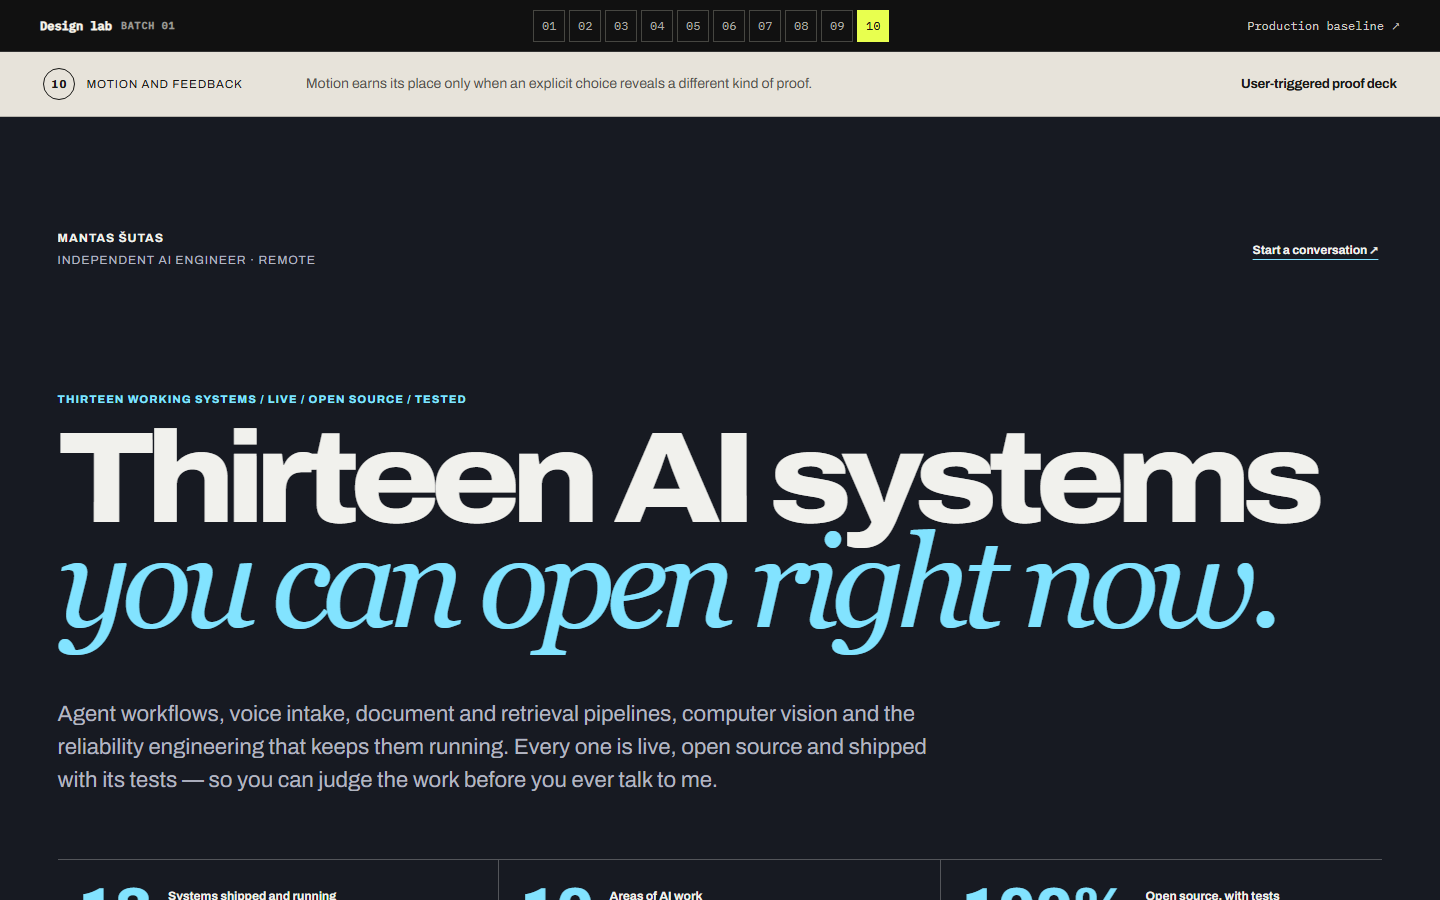
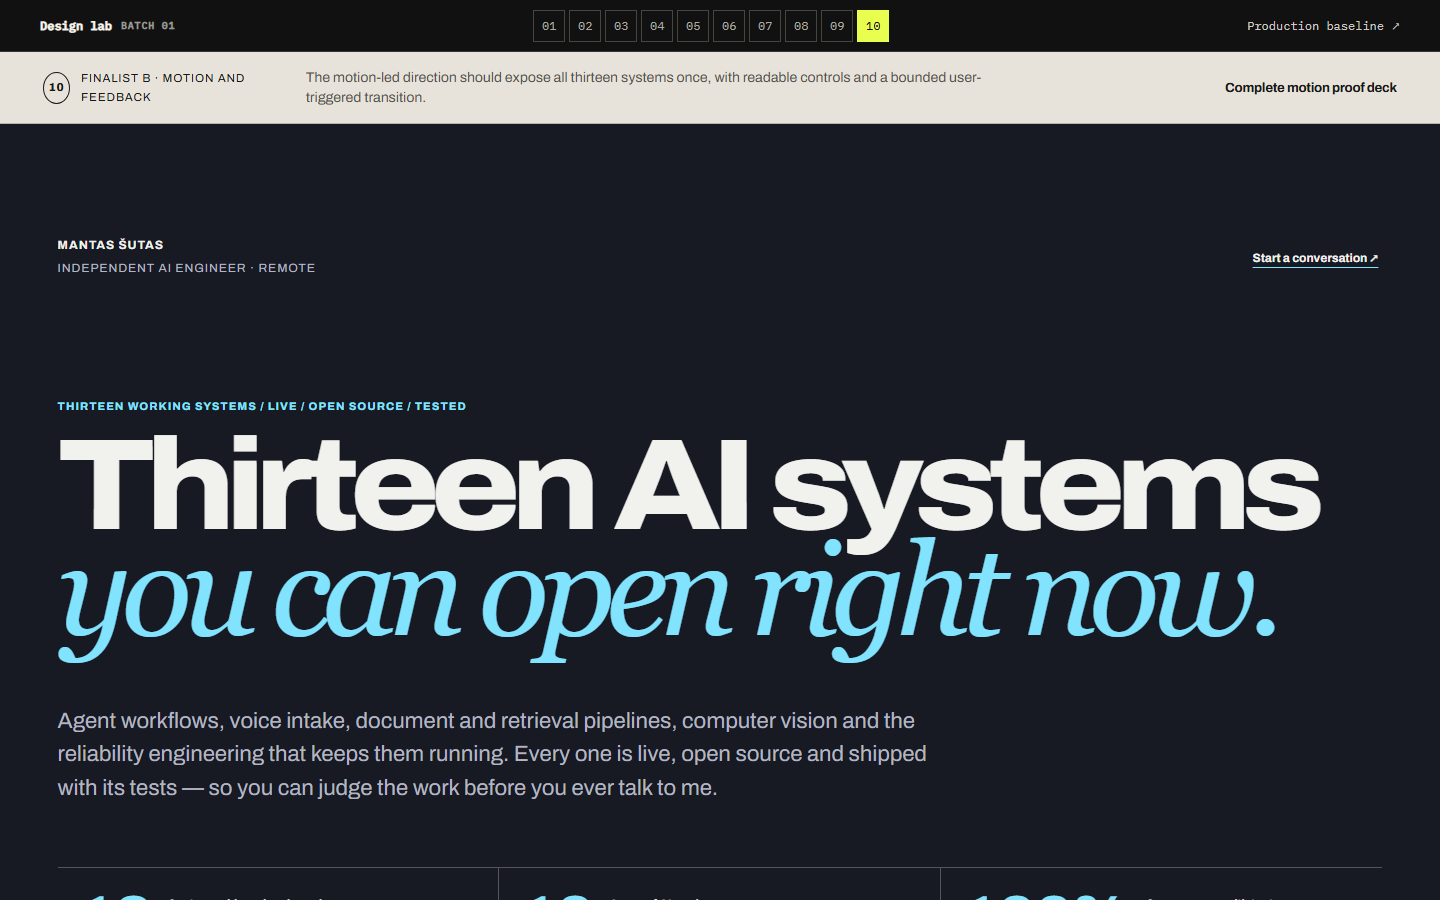
refactor(design-lab): present two complete finalist bases

diff --git a/src/styles/design-lab.css b/src/styles/design-lab.css
@@ -177,15 +177,18 @@
 .v06-canvas > header { display: grid; grid-template-columns: 1fr 3fr; gap: 2rem; align-items: start; margin-bottom: 2.2rem; }
 .v06-canvas > header p { margin: .5rem 0 0; color: #aaa69e; font-size: .7rem; text-transform: uppercase; }
 .v06-canvas > header h2 { margin: 0; font-size: clamp(3.5rem, 7.3vw, 7.5rem); line-height: .82; letter-spacing: -.075em; }
-.v06-layout { display: grid; grid-template-columns: minmax(250px, .65fr) 2.2fr; gap: 2rem; align-items: start; }
-.v06-list { max-height: 680px; margin: 0; padding: 0; overflow-y: auto; border-block: 1px solid #4a4843; list-style: none; scrollbar-color: #777 #242424; }
+.v06-layout { display: grid; grid-template-columns: minmax(370px, .9fr) minmax(0, 1.45fr); gap: 2rem; align-items: start; }
+.v06-list { margin: 0; padding: 0; border-block: 1px solid #4a4843; list-style: none; }
 .v06-list li { border-bottom: 1px solid #353432; }
-.v06-list button { display: grid; grid-template-columns: 2.3rem 1fr auto 10px; gap: .7rem; align-items: center; width: 100%; min-height: 49px; padding: .65rem .5rem; border: 0; background: transparent; color: #d2cec6; text-align: left; cursor: pointer; font: inherit; }
+.v06-list button { display: grid; grid-template-columns: 2.3rem minmax(0, 1fr) 10px; gap: .2rem .7rem; align-items: start; width: 100%; min-height: 68px; padding: .75rem .6rem; border: 0; background: transparent; color: #d2cec6; text-align: left; cursor: pointer; font: inherit; }
 .v06-list button:hover, .v06-list button[aria-pressed='true'] { background: #242321; color: #fff; }
-.v06-list button span, .v06-list button small { color: #8f8b84; font-size: .64rem; text-transform: uppercase; }
-.v06-list button small { min-width: 0; overflow: hidden; text-overflow: ellipsis; white-space: nowrap; }
-.v06-list button i { width: 9px; height: 9px; border-radius: 50%; background: var(--project); box-shadow: 0 0 0 3px color-mix(in srgb, var(--project), transparent 70%); }
-.v06-display article { display: grid; grid-template-columns: 1.45fr .8fr; min-height: 620px; border: 1px solid #41403c; background: color-mix(in srgb, var(--project), #151515 91%); }
+.v06-list button span { grid-row: 1 / 3; padding-top: .15rem; }
+.v06-list button b { line-height: 1.18; }
+.v06-list button span, .v06-list button small { color: #aaa69e; font-size: .64rem; text-transform: uppercase; }
+.v06-list button small { grid-column: 2; min-width: 0; line-height: 1.3; }
+.v06-list button i { grid-column: 3; grid-row: 1 / 3; align-self: center; width: 9px; height: 9px; border-radius: 50%; background: var(--project); box-shadow: 0 0 0 3px color-mix(in srgb, var(--project), transparent 70%); }
+.v06-display { position: sticky; top: 1.5rem; min-width: 0; }
+.v06-display article { display: grid; grid-template-columns: minmax(0, 1.2fr) minmax(260px, .8fr); border: 1px solid #41403c; background: color-mix(in srgb, var(--project), #151515 91%); }
 .v06-image { display: grid; place-items: center; padding: 2rem; background: color-mix(in srgb, var(--project), #151515 84%); }
 .v06-image img { display: block; width: 100%; height: auto; box-shadow: 0 28px 70px #0008; }
 .v06-display article > div:last-child { display: flex; flex-direction: column; justify-content: center; padding: 2.2rem; border-left: 1px solid #484641; }
@@ -270,34 +273,42 @@
 .v09-notes a { color: #17352b; font-size: .72rem; font-weight: 800; }
 .v09-canvas > footer { display: flex; justify-content: space-between; gap: 1rem; padding-top: 1rem; border-top: 1px solid #17352b; font-size: .7rem; text-transform: uppercase; }
 
-/* 10 — user-triggered proof deck */
-.v10-canvas { min-height: 100vh; padding: clamp(2rem, 4vw, 4rem); overflow: hidden; background: #171634; color: #f4f1e8; }
+/* 10 — user-triggered complete proof deck */
+.v10-canvas { min-height: 100vh; padding: clamp(2rem, 4vw, 4rem); background: #171634; color: #f4f1e8; }
 .v10-canvas > header { display: grid; grid-template-columns: 1fr 3fr; gap: 2rem; align-items: start; }
 .v10-canvas > header p { margin: .6rem 0 0; color: #aaa6cc; font-size: .7rem; text-transform: uppercase; }
 .v10-canvas > header h2 { margin: 0; font-size: clamp(3.8rem, 7vw, 7.4rem); line-height: .82; letter-spacing: -.075em; }
-.v10-controls { display: flex; gap: .5rem; flex-wrap: wrap; margin: 2.2rem 0 1.4rem; padding-left: 25%; }
-.v10-controls button { display: flex; gap: .75rem; min-height: 44px; padding: .8rem 1rem; border: 1px solid #77739b; background: transparent; color: #d4d0ee; font: inherit; font-size: .75rem; cursor: pointer; }
-.v10-controls button span { color: #8b86af; }
-.v10-controls button[aria-pressed='true'] { background: #f4f1e8; color: #171634; }
-.v10-controls button[aria-pressed='true'] span { color: #514c75; }
-.v10-stage { position: relative; width: min(1100px, 76vw); height: 610px; margin-left: auto; }
-.v10-stage article { position: absolute; inset: 0; display: grid; grid-template-columns: 1.45fr .85fr; min-height: 510px; border-top: 9px solid var(--project); background: #f2eee5; color: #171634; box-shadow: 0 35px 90px #070716aa; transform-origin: 50% 20%; }
-.v10-stage article:nth-child(2) { transform: translate(44px, 47px) scale(.94); opacity: .48; }
-.v10-stage article:nth-child(3) { transform: translate(60px, 60px) scale(.94); opacity: .48; }
+.v10-layout { display: grid; grid-template-columns: minmax(380px, .9fr) minmax(0, 1.35fr); gap: 2rem; align-items: start; margin-top: 2.5rem; }
+.v10-index section { padding: 1.1rem 0; border-top: 1px solid #56527d; }
+.v10-index h3 { display: grid; grid-template-columns: 2.5rem 1fr; margin: 0 0 .7rem; color: #c7c3e2; font-size: .72rem; text-transform: uppercase; }
+.v10-index h3 span { color: #8f89b8; }
+.v10-index ol { margin: 0; padding: 0; list-style: none; }
+.v10-index li { border-top: 1px solid #37355b; }
+.v10-index button { display: grid; grid-template-columns: 2.5rem minmax(0, 1fr); gap: .25rem .7rem; width: 100%; min-height: 70px; padding: .75rem .7rem .75rem 0; border: 0; background: transparent; color: #f0edf7; text-align: left; cursor: pointer; font: inherit; }
+.v10-index button:hover, .v10-index button:focus-visible, .v10-index button[aria-pressed='true'] { padding-left: .7rem; background: #f4f1e8; color: #171634; box-shadow: inset 5px 0 var(--project); }
+.v10-index button span { grid-row: 1 / 3; color: #aaa6cc; font-size: .66rem; }
+.v10-index button b { line-height: 1.18; overflow-wrap: anywhere; }
+.v10-index button small { grid-column: 2; color: #b8b4d0; font-size: .68rem; line-height: 1.3; }
+.v10-index button:hover span, .v10-index button:focus-visible span, .v10-index button[aria-pressed='true'] span,
+.v10-index button:hover small, .v10-index button:focus-visible small, .v10-index button[aria-pressed='true'] small { color: #57536f; }
+.v10-stage { position: sticky; top: 1.5rem; min-width: 0; box-shadow: 14px 14px 0 #302e59, 28px 28px 0 #242242; }
+.v10-stage article { display: grid; grid-template-columns: minmax(0, 1.15fr) minmax(270px, .85fr); border-top: 9px solid var(--project); background: #f2eee5; color: #171634; box-shadow: 0 35px 90px #070716aa; transform-origin: 50% 20%; }
 .v10-image { display: grid; place-items: center; padding: 1.2rem; background: color-mix(in srgb, var(--project), #e8e2d8 79%); }
 .v10-image img { display: block; width: 100%; height: auto; box-shadow: 0 20px 50px #2c25434a; }
 .v10-copy { display: flex; flex-direction: column; justify-content: center; padding: 2rem; border-left: 1px solid #9d998f; }
 .v10-copy span { color: color-mix(in srgb, var(--project), #171634 58%); font-size: .68rem; font-weight: 800; text-transform: uppercase; }
-.v10-copy h3 { margin: .8rem 0; font-size: clamp(2rem, 3.4vw, 3.7rem); line-height: .93; }
+.v10-copy h3 { margin: .8rem 0; font-size: clamp(1.8rem, 3vw, 3.25rem); line-height: .95; overflow-wrap: anywhere; }
 .v10-copy p { color: #514e5a; line-height: 1.42; }
 .v10-copy b { margin-bottom: 1.2rem; color: #171634; font-size: .8rem; }
-.v10-copy a { align-self: start; padding: .75rem .9rem; border: 1px solid var(--project); color: #171634; font-size: .72rem; font-weight: 750; text-decoration: none; }
-.v10-motion-note { margin: 0 0 0 auto; max-width: 1100px; color: #9995bd; font-size: .7rem; }
+.v10-actions { display: flex; flex-wrap: wrap; gap: .6rem; }
+.v10-actions a { display: inline-flex; align-items: center; min-height: 44px; padding: .7rem .9rem; border: 1px solid #171634; color: #171634; font-size: .72rem; font-weight: 750; text-decoration: none; }
+.v10-actions a:last-child { background: #171634; color: #fff; }
+.v10-motion-note { margin: 2.4rem 0 0 auto; max-width: 920px; color: #b8b4d0; font-size: .72rem; }
 
 [hidden] { display: none !important; }
 
 @media (prefers-reduced-motion: no-preference) {
-  .v01-index a, .v05-groups a, .v06-list button { transition: background-color .16s ease, padding .16s ease, box-shadow .16s ease; }
+  .v01-index a, .v05-groups a, .v06-list button, .v10-index button { transition: background-color .16s ease, padding .16s ease, box-shadow .16s ease; }
   .v04-focus { transition: left .25s ease, top .25s ease, width .25s ease, height .25s ease; }
   .v07-canvas.playing .v07-timeline li { animation: receiptStep .28s both; }
   .v07-canvas.playing .v07-timeline li:nth-child(2) { animation-delay: .28s; }
@@ -316,6 +327,9 @@
   .v05-preview figure { display: grid; grid-template-columns: 1.2fr 1fr; }
   .v05-preview figcaption { padding: 1rem; }
   .v05-preview h3 { font-size: 1.5rem; }
+
+  .v06-layout, .v10-layout { grid-template-columns: 1fr; }
+  .v06-display, .v10-stage { position: relative; top: auto; }
 }
 
 @media (max-width: 760px) {
@@ -374,10 +388,8 @@
   .v06-canvas > header { grid-template-columns: 1fr; gap: .7rem; }
   .v06-canvas > header h2 { font-size: 3.7rem; }
   .v06-layout { grid-template-columns: 1fr; gap: 1rem; }
-  .v06-list { display: flex; max-height: none; overflow-x: auto; border: 0; }
-  .v06-list li { flex: 0 0 auto; border: 1px solid #45433f; }
-  .v06-list button { grid-template-columns: auto 1fr 9px; min-width: 160px; }
-  .v06-list button small { display: none; }
+  .v06-list { display: block; border-top: 1px solid #45433f; }
+  .v06-list li { border-right: 0; }
   .v06-display article { grid-template-columns: 1fr; min-height: auto; }
   .v06-image { padding: 1rem; }
   .v06-display article > div:last-child { border-top: 1px solid #484641; border-left: 0; }
@@ -419,13 +431,11 @@
   .v10-canvas { padding: 2rem .9rem; }
   .v10-canvas > header { grid-template-columns: 1fr; gap: .8rem; }
   .v10-canvas > header h2 { font-size: 3.8rem; }
-  .v10-controls { display: grid; grid-template-columns: 1fr; padding-left: 0; }
-  .v10-controls button { width: 100%; }
-  .v10-stage { width: 100%; height: 670px; }
-  .v10-stage article { grid-template-columns: 1fr; min-height: 610px; }
+  .v10-layout { grid-template-columns: 1fr; gap: 1.8rem; }
+  .v10-index button { grid-template-columns: 2.2rem minmax(0, 1fr); }
+  .v10-stage { width: calc(100% - 24px); box-shadow: 8px 8px 0 #302e59, 16px 16px 0 #242242; }
+  .v10-stage article { grid-template-columns: 1fr; }
   .v10-image { align-content: start; }
   .v10-copy { justify-content: start; padding: 1.3rem; border-top: 1px solid #9d998f; border-left: 0; }
   .v10-copy h3 { font-size: 2.2rem; }
-  .v10-stage article:nth-child(2) { transform: translate(10px, 24px) scale(.96); }
-  .v10-stage article:nth-child(3) { transform: translate(18px, 38px) scale(.94); }
 }

diff --git a/design-lab/VARIANT_MANIFEST.md b/design-lab/VARIANT_MANIFEST.md
@@ -14,13 +14,18 @@ media and claims. The lab is absent from production navigation.
 | 03 | **Display typography — variable-width specimen.** Using Archivo's existing width axis as composition can create identity without another font or graphic layer. | Instrument grotesque crop; Vercel scale contrast; Archivo already shipped | Conventional bold headline becomes a condensed/expanded typographic poster with a visitor-controlled width specimen. | Distinctive at near-zero payload cost; demonstrates design control. | Expressive type can reduce immediate legibility if pushed too far. | S |  |
 | 04 | **Live stage — guided inspection bench.** A product stage should point to one important interaction and result instead of showing an undirected full console. | Linear real interface; Raycast category media; Codrops clip/reveal mechanisms refitted to click only | Generic browser frame becomes a product-coloured crop with three accessible inspection points and click-triggered focus masks. | Makes dense interfaces legible at contact-sheet size and gives visitors a reason to interact. | Annotation maintenance when product UIs change; risks feeling like a tour overlay. | M |  |
 | 05 | **Project discovery — evidence lens.** A complete text index can gain strong information scent through a collision-safe preview on hover/focus without hiding any rows. | Eugene Yan counted index; ustwo chapters; Floating UI (32.7k stars) for placement | Same thirteen visible rows, grouped by client route; focused row opens a real product preview and hard-part label beside it. | Faster comparison and stronger media presence without a card grid or carousel. | Desktop enhancement has no exact mobile equivalent; preview must never obstruct controls. | M |  |
-| 06 | **Product identity — thirteen-colour registry.** Each system's own accent can make breadth memorable while the central shell remains quiet. | Stripe product-connected colour; Raycast campaign identity; PostHog proprietary palette | Single green accent becomes a curated per-project colour registry applied to numbers, rules, selection and image mats. | Products stop looking reskinned; the index becomes visually navigable. | Too many simultaneous accents can look noisy or arbitrary. | M |  |
+| 06 | **Finalist A — complete identity registry.** Each system's own accent can make breadth memorable while a complete visible index keeps comparison immediate. | Stripe product-connected colour; Raycast campaign identity; PostHog proprietary palette; experiment 05 hover/focus lens | All 13 descriptive titles are visible in one list; hover, focus or tap changes the full canonical project preview, image mat and actions. | Products stop looking reskinned; the index is complete and fast to inspect without a second directory. | The long visible index is deliberately dense, especially on mobile. | M |  |
 | 07 | **Evidence — executable receipt.** Results should scan as a test outcome with artifact, rerun and limit in one visual path. | Linear explicit state; PostHog candid copy; existing immutable evidence contract | Definition lists become a large 7/7 result, failure/recovery timeline, artifact links, rerun block and visibly bounded claim. | Turns invisible reliability work into a high-signal visual asset. | A receipt treatment may over-emphasize one impressive project or look like a certification claim. | M |  |
 | 08 | **Project detail — case spine.** One sticky chapter spine can preserve orientation while each project gets a composition suited to its defining artifact. | ustwo editorial chapters; Stripe product sequences; Brittany Chiang sticky orientation | Flat detail sequence becomes Problem / Run it / Receipt / Adapt it chapters with a sticky index and project-specific stage. | Better depth without forcing a long linear read; stronger case-study feel. | More authoring per project and a larger consistency burden across thirteen pages. | L |  |
 | 09 | **Human authorship — engineering field notes.** First-person decisions and a larger portrait can expose judgement without invented social proof. | thoughtbot people; Valentin portrait; Josh Comeau authored voice; PostHog candour | Small identity chip becomes a signed field-note spread pairing Mantas's real decisions with the corresponding systems. | Makes the portfolio feel owned by a practitioner, not assembled from project cards. | Can become self-focused or verbose; claims must remain interview-defensible. | M |  |
-| 10 | **User-triggered motion — proof deck.** Motion should reveal comparison only after an explicit choice and should stop instantly under reduced motion. | Josh Comeau microinteractions; Motion (32.1k stars); Codrops transition principles refitted away from scroll | Static selected state becomes an accessible three-card proof deck; click/key selection reorders and expands evidence with interruptible motion. | Adds polish tied to understanding, not decoration; makes three different proof types comparable. | Bundle cost and motion sensitivity; could feel toy-like if spring amplitude is high. | M |  |
+| 10 | **Finalist B — complete motion proof deck.** Motion should reveal one selected system only after an explicit choice and should stop instantly under reduced motion. | Josh Comeau microinteractions; Motion (32.1k stars); Codrops transition principles refitted away from scroll; experiment 05 hover/focus lens | The former three-card prelude and duplicated directory are replaced by one grouped 13-project index and one full canonical stage. Hover, focus or tap triggers a bounded entrance effect. | Keeps the cooler feedback while making the information scope complete, readable and non-redundant. | Motion still adds a dependency and the grouped index is longer than 06's flat registry. | M |  |
 
 ## Review table
+
+Owner shortlist, 2026-08-16: **06 and 10 remain parallel finalists; no base has
+been selected.** Both now share equal canonical content and reuse 05's
+hover/focus discovery behavior. Compare identity-led 06 against motion-led 10;
+do not infer a winner from the implementation order.
 
 | # | Decision | Revision request or reason |
 | ---: | --- | --- |
@@ -34,4 +39,3 @@ media and claims. The lab is absent from production navigation.
 | 08 |  |  |
 | 09 |  |  |
 | 10 |  |  |
-
